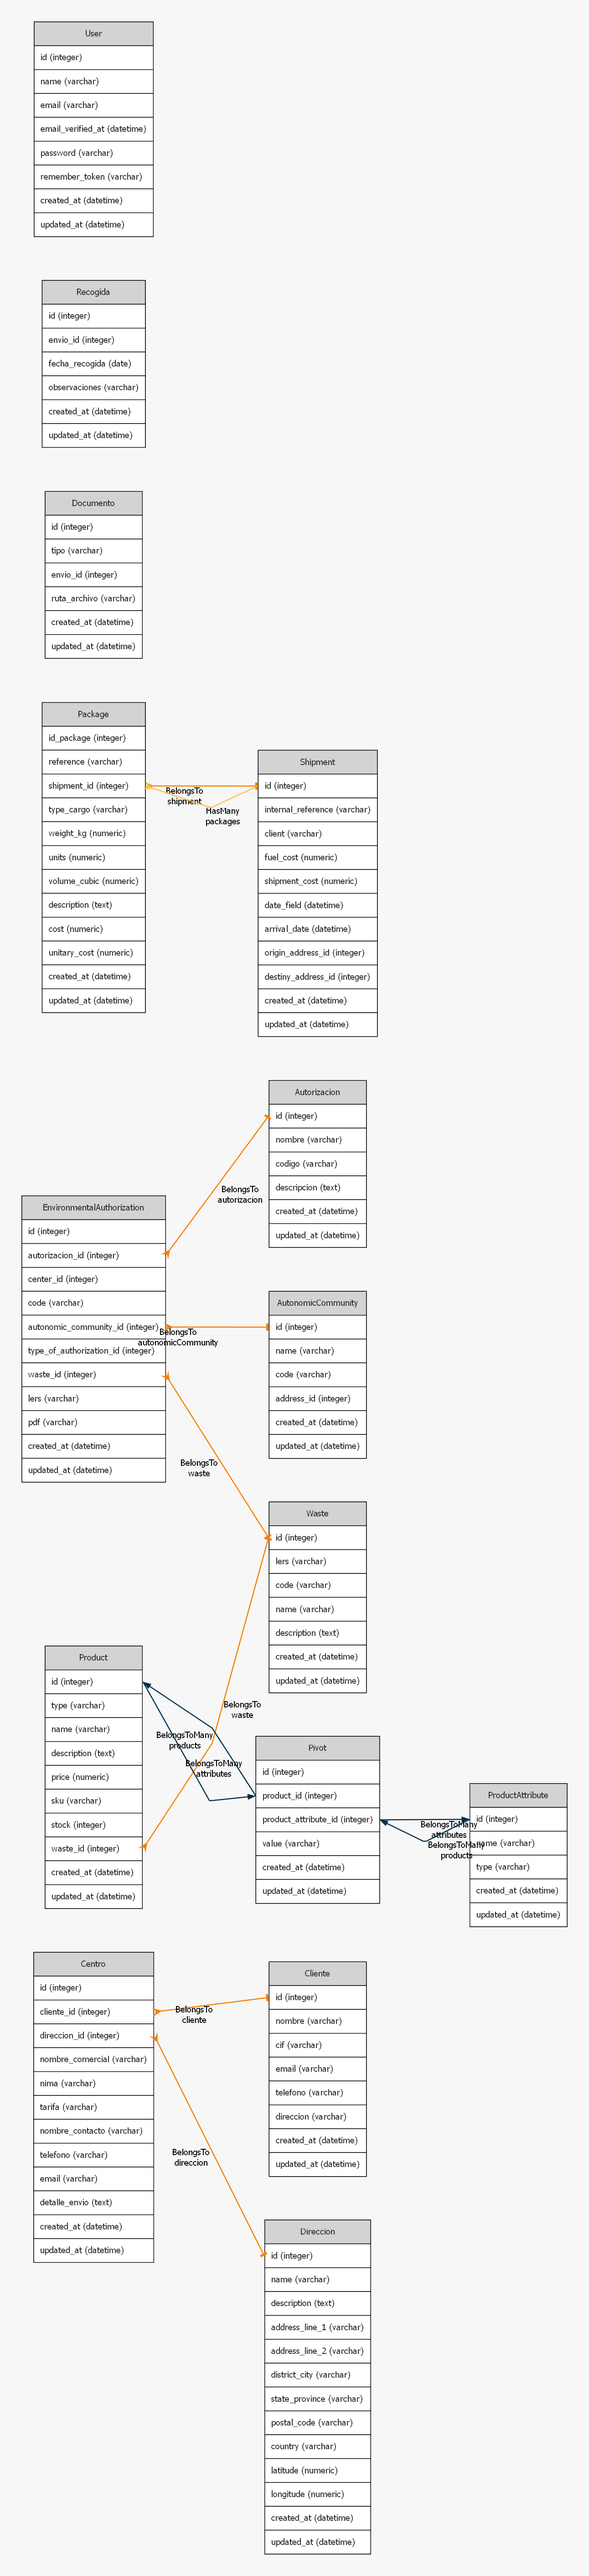
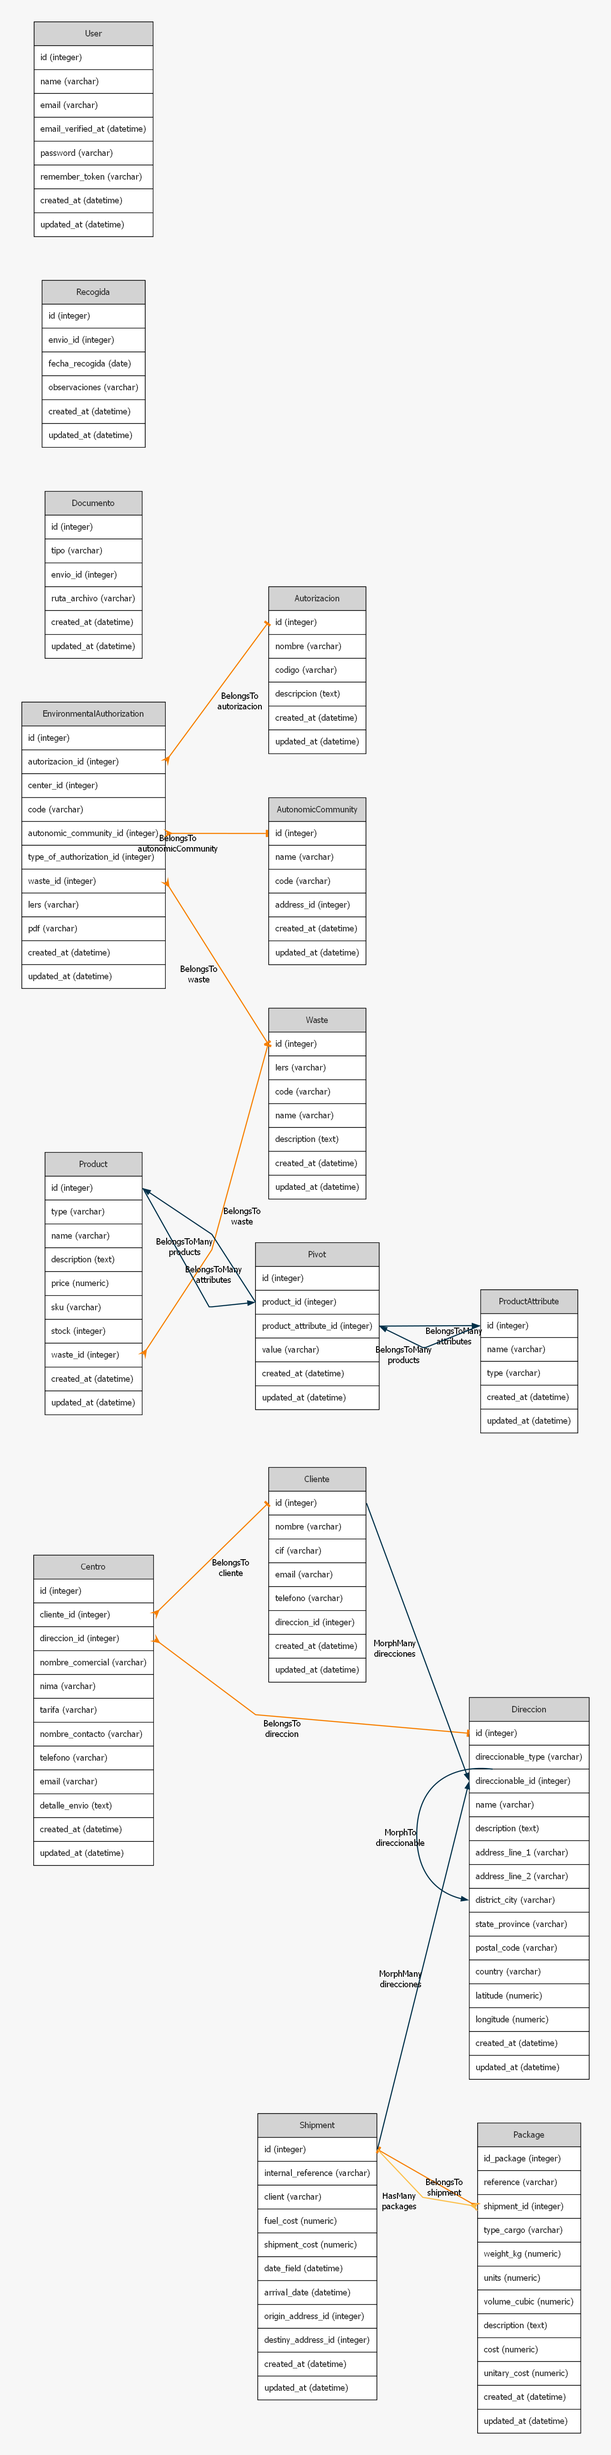
Refactor: clientes update

diff --git a/resources/views/clientes/create.blade.php b/resources/views/clientes/create.blade.php
@@ -1,53 +1,91 @@
-<!-- resources/views/autorizaciones/index.blade.php -->
-
 @extends('layouts.app')
 
 @section('content')
 <div class="container">
-    <h1 class="mb-4">Autorizaciones</h1>
+    <h1>Crear Cliente</h1>
 
-    @if(session('success'))
-        <div class="alert alert-success">
-            {{ session('success') }}
+    @if ($errors->any())
+        <div class="alert alert-danger">
+            <ul>
+                @foreach ($errors->all() as $error)
+                    <li>{{ $error }}</li>
+                @endforeach
+            </ul>
         </div>
     @endif
 
-    <a href="{{ route('autorizaciones.create') }}" class="btn btn-primary mb-3">Crear Nueva Autorización</a>
+    <form action="{{ route('clientes.store') }}" method="POST">
+        @csrf
 
-    @if($autorizaciones->count())
-        <table class="table table-bordered">
-            <thead>
-                <tr>
-                    <th>ID</th>
-                    <th>Nombre</th>
-                    <th>Código</th>
-                    <th>Descripción</th>
-                    <th>Acciones</th>
-                </tr>
-            </thead>
-            <tbody>
-                @foreach($autorizaciones as $autorizacion)
-                    <tr>
-                        <td>{{ $autorizacion->id }}</td>
-                        <td>{{ $autorizacion->nombre }}</td>
-                        <td>{{ $autorizacion->codigo }}</td>
-                        <td>{{ $autorizacion->descripcion }}</td>
-                        <td>
-                            <a href="{{ route('autorizaciones.show', $autorizacion) }}" class="btn btn-info btn-sm">Ver</a>
-                            <a href="{{ route('autorizaciones.edit', $autorizacion) }}" class="btn btn-warning btn-sm">Editar</a>
-                            <form action="{{ route('autorizaciones.destroy', $autorizacion) }}" method="POST" style="display:inline-block;">
-                                @csrf
-                                @method('DELETE')
-                                <button type="submit" class="btn btn-danger btn-sm"
-                                    onclick="return confirm('¿Estás seguro de eliminar esta autorización?')">Eliminar</button>
-                            </form>
-                        </td>
-                    </tr>
-                @endforeach
-            </tbody>
+        <div class="mb-3">
+            <label for="nombre" class="form-label">Nombre</label>
+            <input type="text" name="nombre" class="form-control" required>
+        </div>
+
+        <div class="mb-3">
+            <label for="cif" class="form-label">CIF</label>
+            <input type="text" name="cif" class="form-control" required>
+        </div>
+
+        <div class="mb-3">
+            <label for="email" class="form-label">Correo</label>
+            <input type="email" name="email" class="form-control">
+        </div>
+
+        <div class="mb-3">
+            <label for="telefono" class="form-label">Teléfono</label>
+            <input type="text" name="telefono" class="form-control">
+        </div>
+
+        <hr>
+        <h3>Dirección principal</h3>
+        
+        @csrf
+        
+        <table style="width:100%; max-width:600px; border-collapse:collapse;">
+            <tr>
+                <td><label for="name">Nombre</label></td>
+                <td><input type="text" name="name" id="name" style="width:100%;"></td>
+            </tr>
+            <tr>
+                <td><label for="description">Descripción</label></td>
+                <td><textarea name="description" id="description" style="width:100%; height:100px;"></textarea></td>
+            </tr>
+            <tr>
+                <td><label for="address_line_1">Dirección Línea 1</label></td>
+                <td><input type="text" name="address_line_1" id="address_line_1" style="width:100%;"></td>
+            </tr>
+            <tr>
+                <td><label for="address_line_2">Dirección Línea 2</label></td>
+                <td><input type="text" name="address_line_2" id="address_line_2" style="width:100%;"></td>
+            </tr>
+            <tr>
+                <td><label for="district_city">Ciudad / Distrito</label></td>
+                <td><input type="text" name="district_city" id="district_city" style="width:100%;"></td>
+            </tr>
+            <tr>
+                <td><label for="state_province">Provincia / Estado</label></td>
+                <td><input type="text" name="state_province" id="state_province" style="width:100%;"></td>
+            </tr>
+            <tr>
+                <td><label for="postal_code">Código Postal</label></td>
+                <td><input type="text" name="postal_code" id="postal_code" style="width:100%;"></td>
+            </tr>
+            <tr>
+                <td><label for="country">País</label></td>
+                <td>
+                    <select name="country" id="country" style="width:100%;">
+                        <option value="">Selecciona un país</option>
+                        @foreach($paises as $pais)
+                        <option value="{{ $pais }}">{{ $pais }}</option>
+                        @endforeach
+                    </select>
+                </td>
+            </tr>
         </table>
-    @else
-        <p>No hay autorizaciones registradas.</p>
-    @endif
+    
+    <button type="submit" class="btn btn-success">Guardar</button>
+    <a href="{{ route('clientes.index') }}" class="btn btn-secondary">Cancelar</a>
+</form>
 </div>
 @endsection

diff --git a/app/Http/Controllers/ClienteController.php b/app/Http/Controllers/ClienteController.php
@@ -4,7 +4,7 @@ namespace App\Http\Controllers;
 
 use App\Models\Cliente;
 use Illuminate\Http\Request;
-
+use PragmaRX\Countries\Package\Countries;
 class ClienteController extends Controller
 {
     public function index()
@@ -15,18 +15,43 @@ class ClienteController extends Controller
 
     public function create()
     {
-        return view('clientes.create');
+        $paises = Countries::all()->pluck('name.common')->sort();
+        return view('clientes.create', compact('paises'));
     }
-
     public function store(Request $request)
     {
         $request->validate([
-            'nombre'=>'required|string|max:255',
-            'cif'=>'required|string|max:255'
+            'nombre'   => 'required|string|max:255',
+            'cif'      => 'required|string|max:255|unique:clientes,cif',
+            'email'    => 'nullable|email',
+            'telefono' => 'nullable|string|max:20',
+
+            // Validación de dirección
+            'address_line_1' => 'required|string|max:255',
+            'district_city'  => 'required|string|max:255',
+            'country'        => 'required|string|max:255',
         ]);
-        Cliente::create($request->all());
-        return redirect()->route('clientes.index');
+
+        // Crear cliente
+        $cliente = Cliente::create($request->only(['nombre','cif','email','telefono']));
+
+        // Crear dirección asociada
+        $cliente->direcciones()->create($request->only([
+            'name',
+            'description',
+            'address_line_1',
+            'address_line_2',
+            'district_city',
+            'state_province',
+            'postal_code',
+            'country',
+            'latitude',
+            'longitude',
+        ]));
+
+        return redirect()->route('clientes.index')->with('success', 'Cliente creado con dirección');
     }
+
 
     public function edit(Cliente $cliente)
     {

diff --git a/app/Models/Shipment.php b/app/Models/Shipment.php
@@ -27,21 +27,8 @@ class Shipment extends Model
         return $this->hasMany(Package::class);
     }
 
-    // Relación con Carrier
-    public function carrier()
+      public function direcciones()
     {
-        return $this->belongsTo(Carrier::class);
-    }
-
-    // Relación con Address (origin)
-    public function origin()
-    {
-        return $this->belongsTo(Address::class, 'origin_address_id');
-    }
-
-    // Relación con Address (destiny)
-    public function destiny()
-    {
-        return $this->belongsTo(Address::class, 'destiny_address_id');
+        return $this->morphMany(Direccion::class, 'direccionable');
     }
 }

diff --git a/database/migrations/2025_09_01_121359_create_direccions_table.php b/database/migrations/2025_09_01_121359_create_direccions_table.php
@@ -11,8 +11,13 @@ return new class extends Migration
      */
     public function up()
     {
-        Schema::create('direcciones', function (Blueprint $table) {
+       Schema::create('direcciones', function (Blueprint $table) {
             $table->id();
+            
+            // Relación polimórfica
+            $table->morphs('direccionable'); 
+            // Esto crea: direccionable_id y direccionable_type
+            
             $table->string('name')->nullable();
             $table->text('description')->nullable();
             $table->string('address_line_1')->nullable();

diff --git a/app/Models/Direccion.php b/app/Models/Direccion.php
@@ -3,11 +3,11 @@
 namespace App\Models;
 
 use Illuminate\Database\Eloquent\Model;
-
+use Illuminate\Database\Eloquent\Factories\HasFactory;
 class Direccion extends Model
 {
+    use HasFactory;
     protected $table = 'direcciones';
-
     protected $fillable = [
         'name',
         'description',
@@ -18,6 +18,11 @@ class Direccion extends Model
         'postal_code',
         'country',
         'latitude',
-        'longitude',
+        'longitude'
     ];
+
+    public function direccionable()
+    {
+        return $this->morphTo();
+    }
 }

diff --git a/database/migrations/2025_09_01_095314_create_clientes_table.php b/database/migrations/2025_09_01_095314_create_clientes_table.php
@@ -13,7 +13,9 @@ return new class extends Migration {
         $table->string('cif')->unique(); // 🚀 obligatorio y único
         $table->string('email')->nullable();
         $table->string('telefono')->nullable();
-        $table->string('direccion')->nullable();
+        // Relación con direcciones
+        $table->unsignedBigInteger('direccion_id')->nullable();
+        $table->foreign('direccion_id')->references('id')->on('direcciones')->onDelete('set null');
         $table->timestamps();
     });
 

diff --git a/app/Models/Cliente.php b/app/Models/Cliente.php
@@ -8,10 +8,11 @@ use Illuminate\Database\Eloquent\Model;
 class Cliente extends Model
 {
     use HasFactory;
-    protected $fillable = ['nombre','cif','email','telefono','direccion'];
 
-    public function shipments()
+    protected $fillable = ['nombre', 'cif', 'email', 'telefono'];
+
+    public function direcciones()
     {
-        return $this->hasMany(Envio::class);
+        return $this->morphMany(Direccion::class, 'direccionable');
     }
 }
